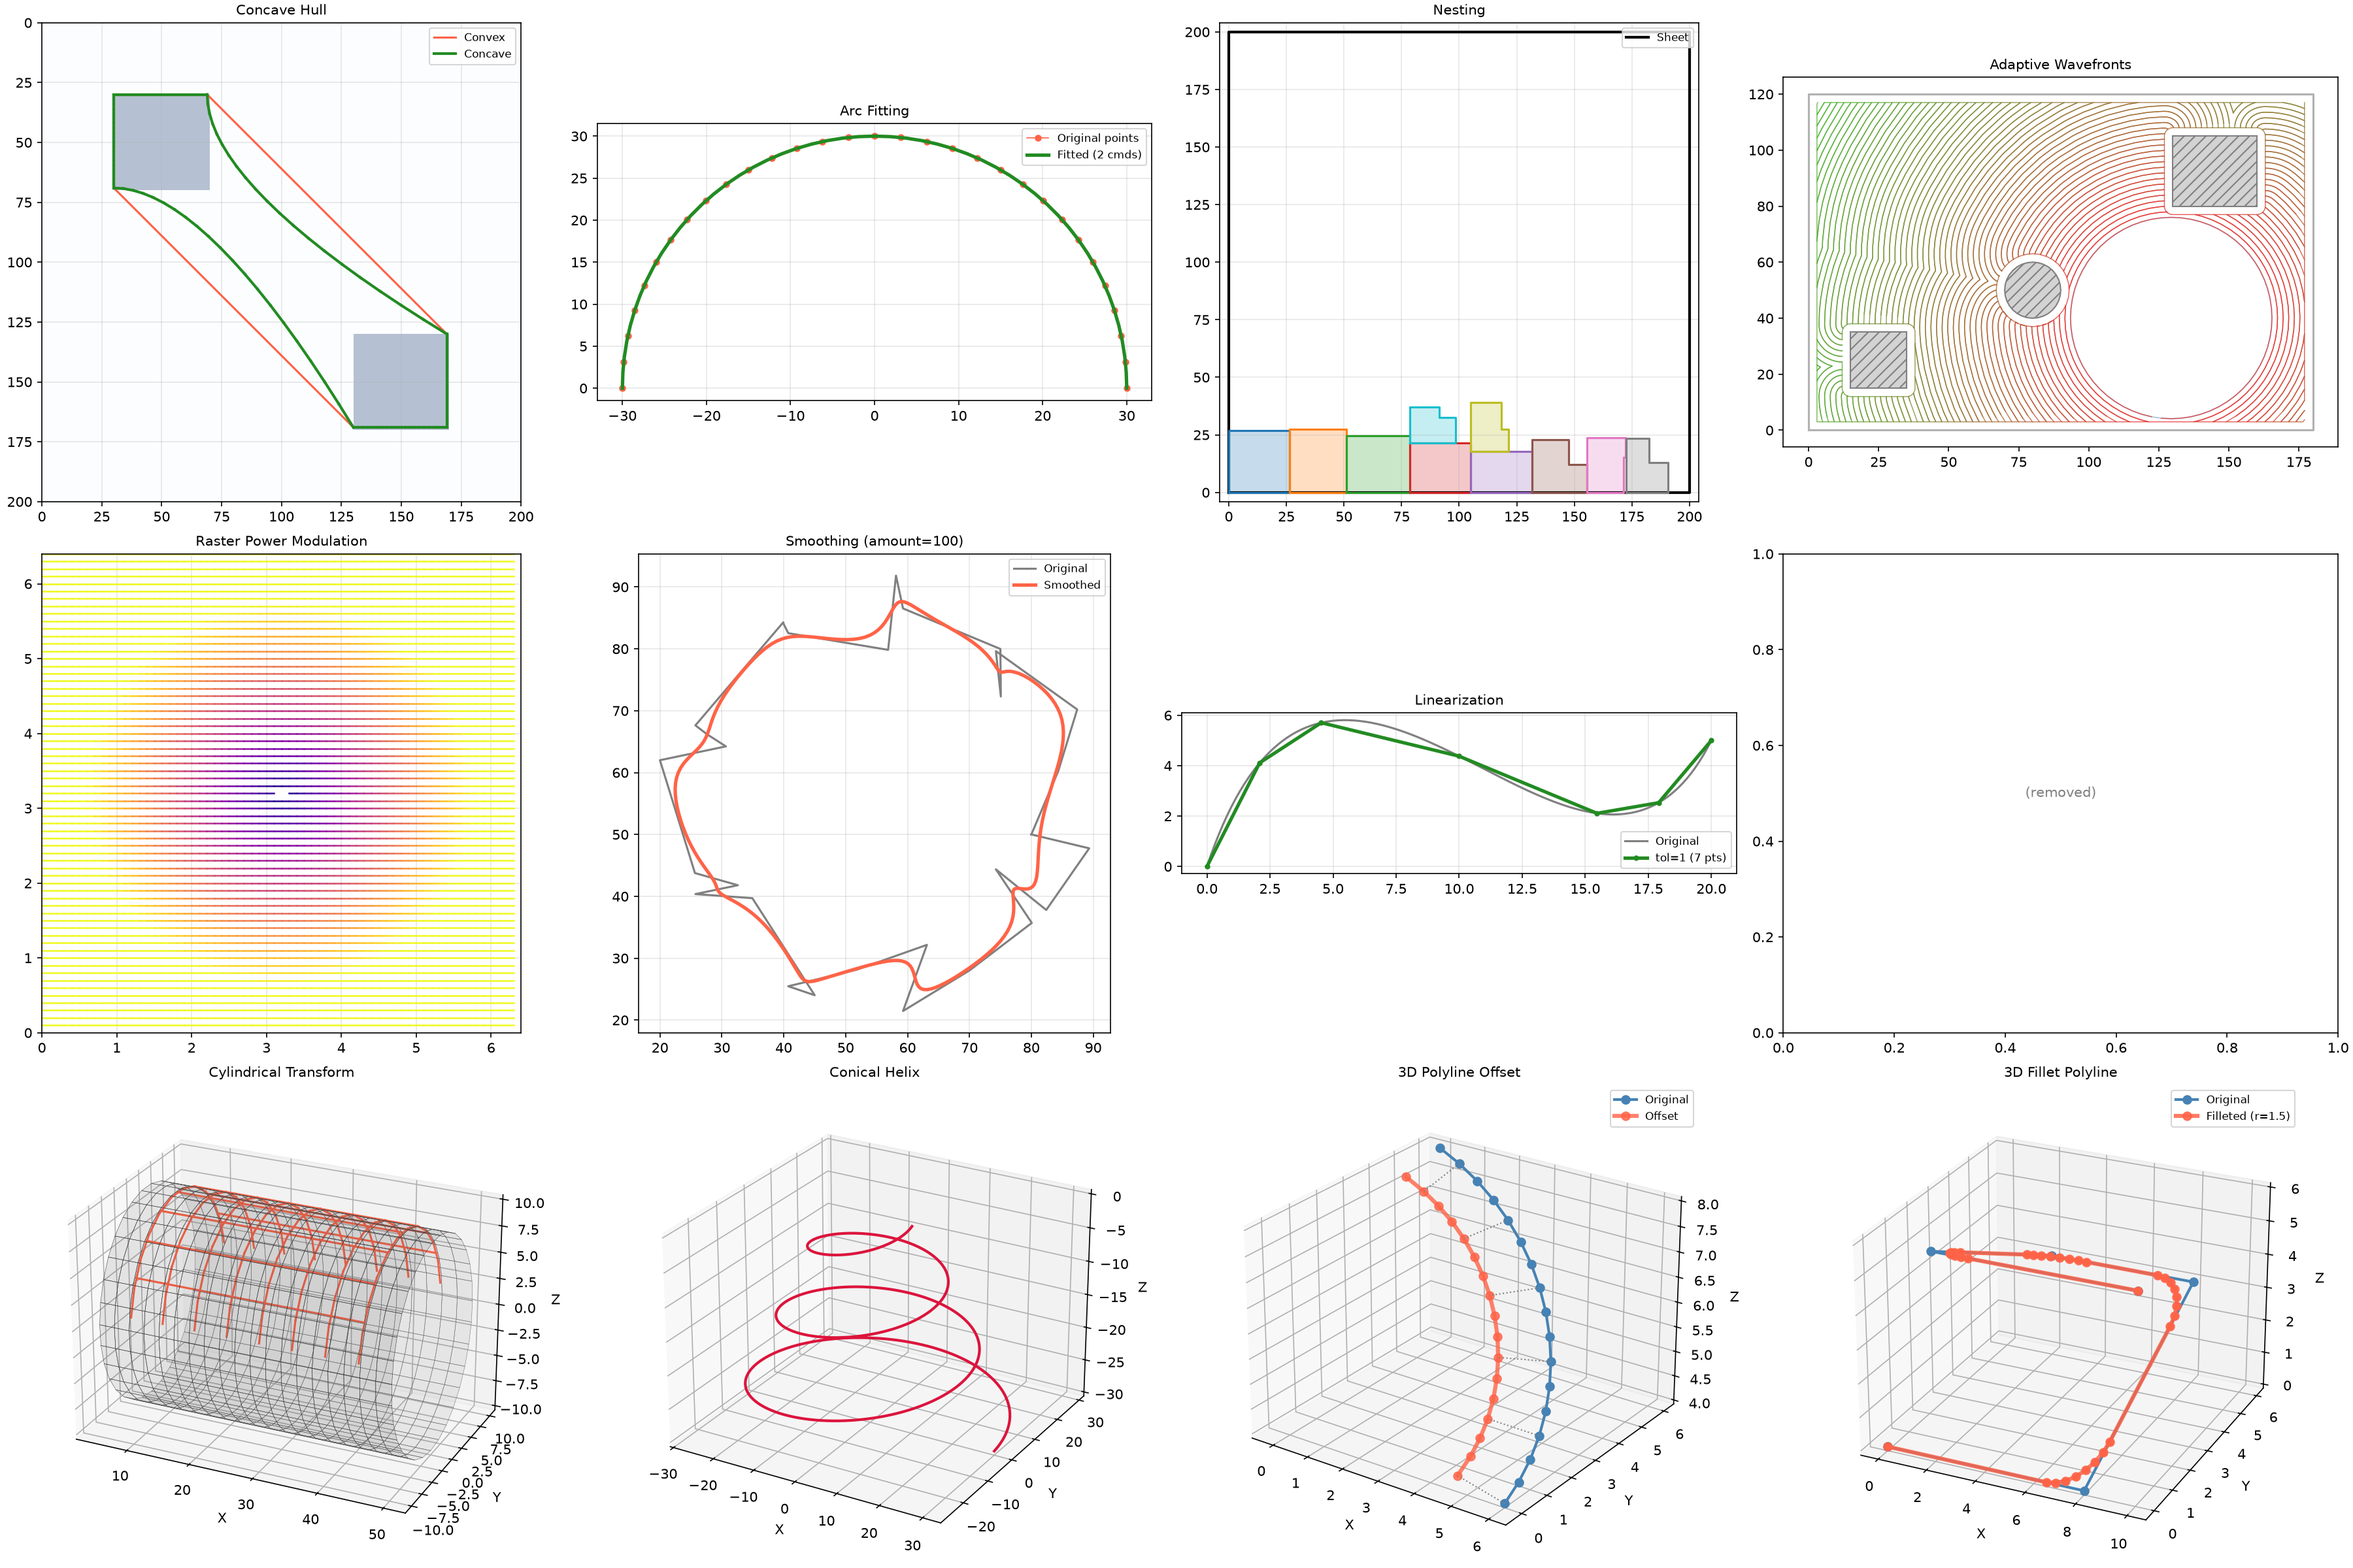
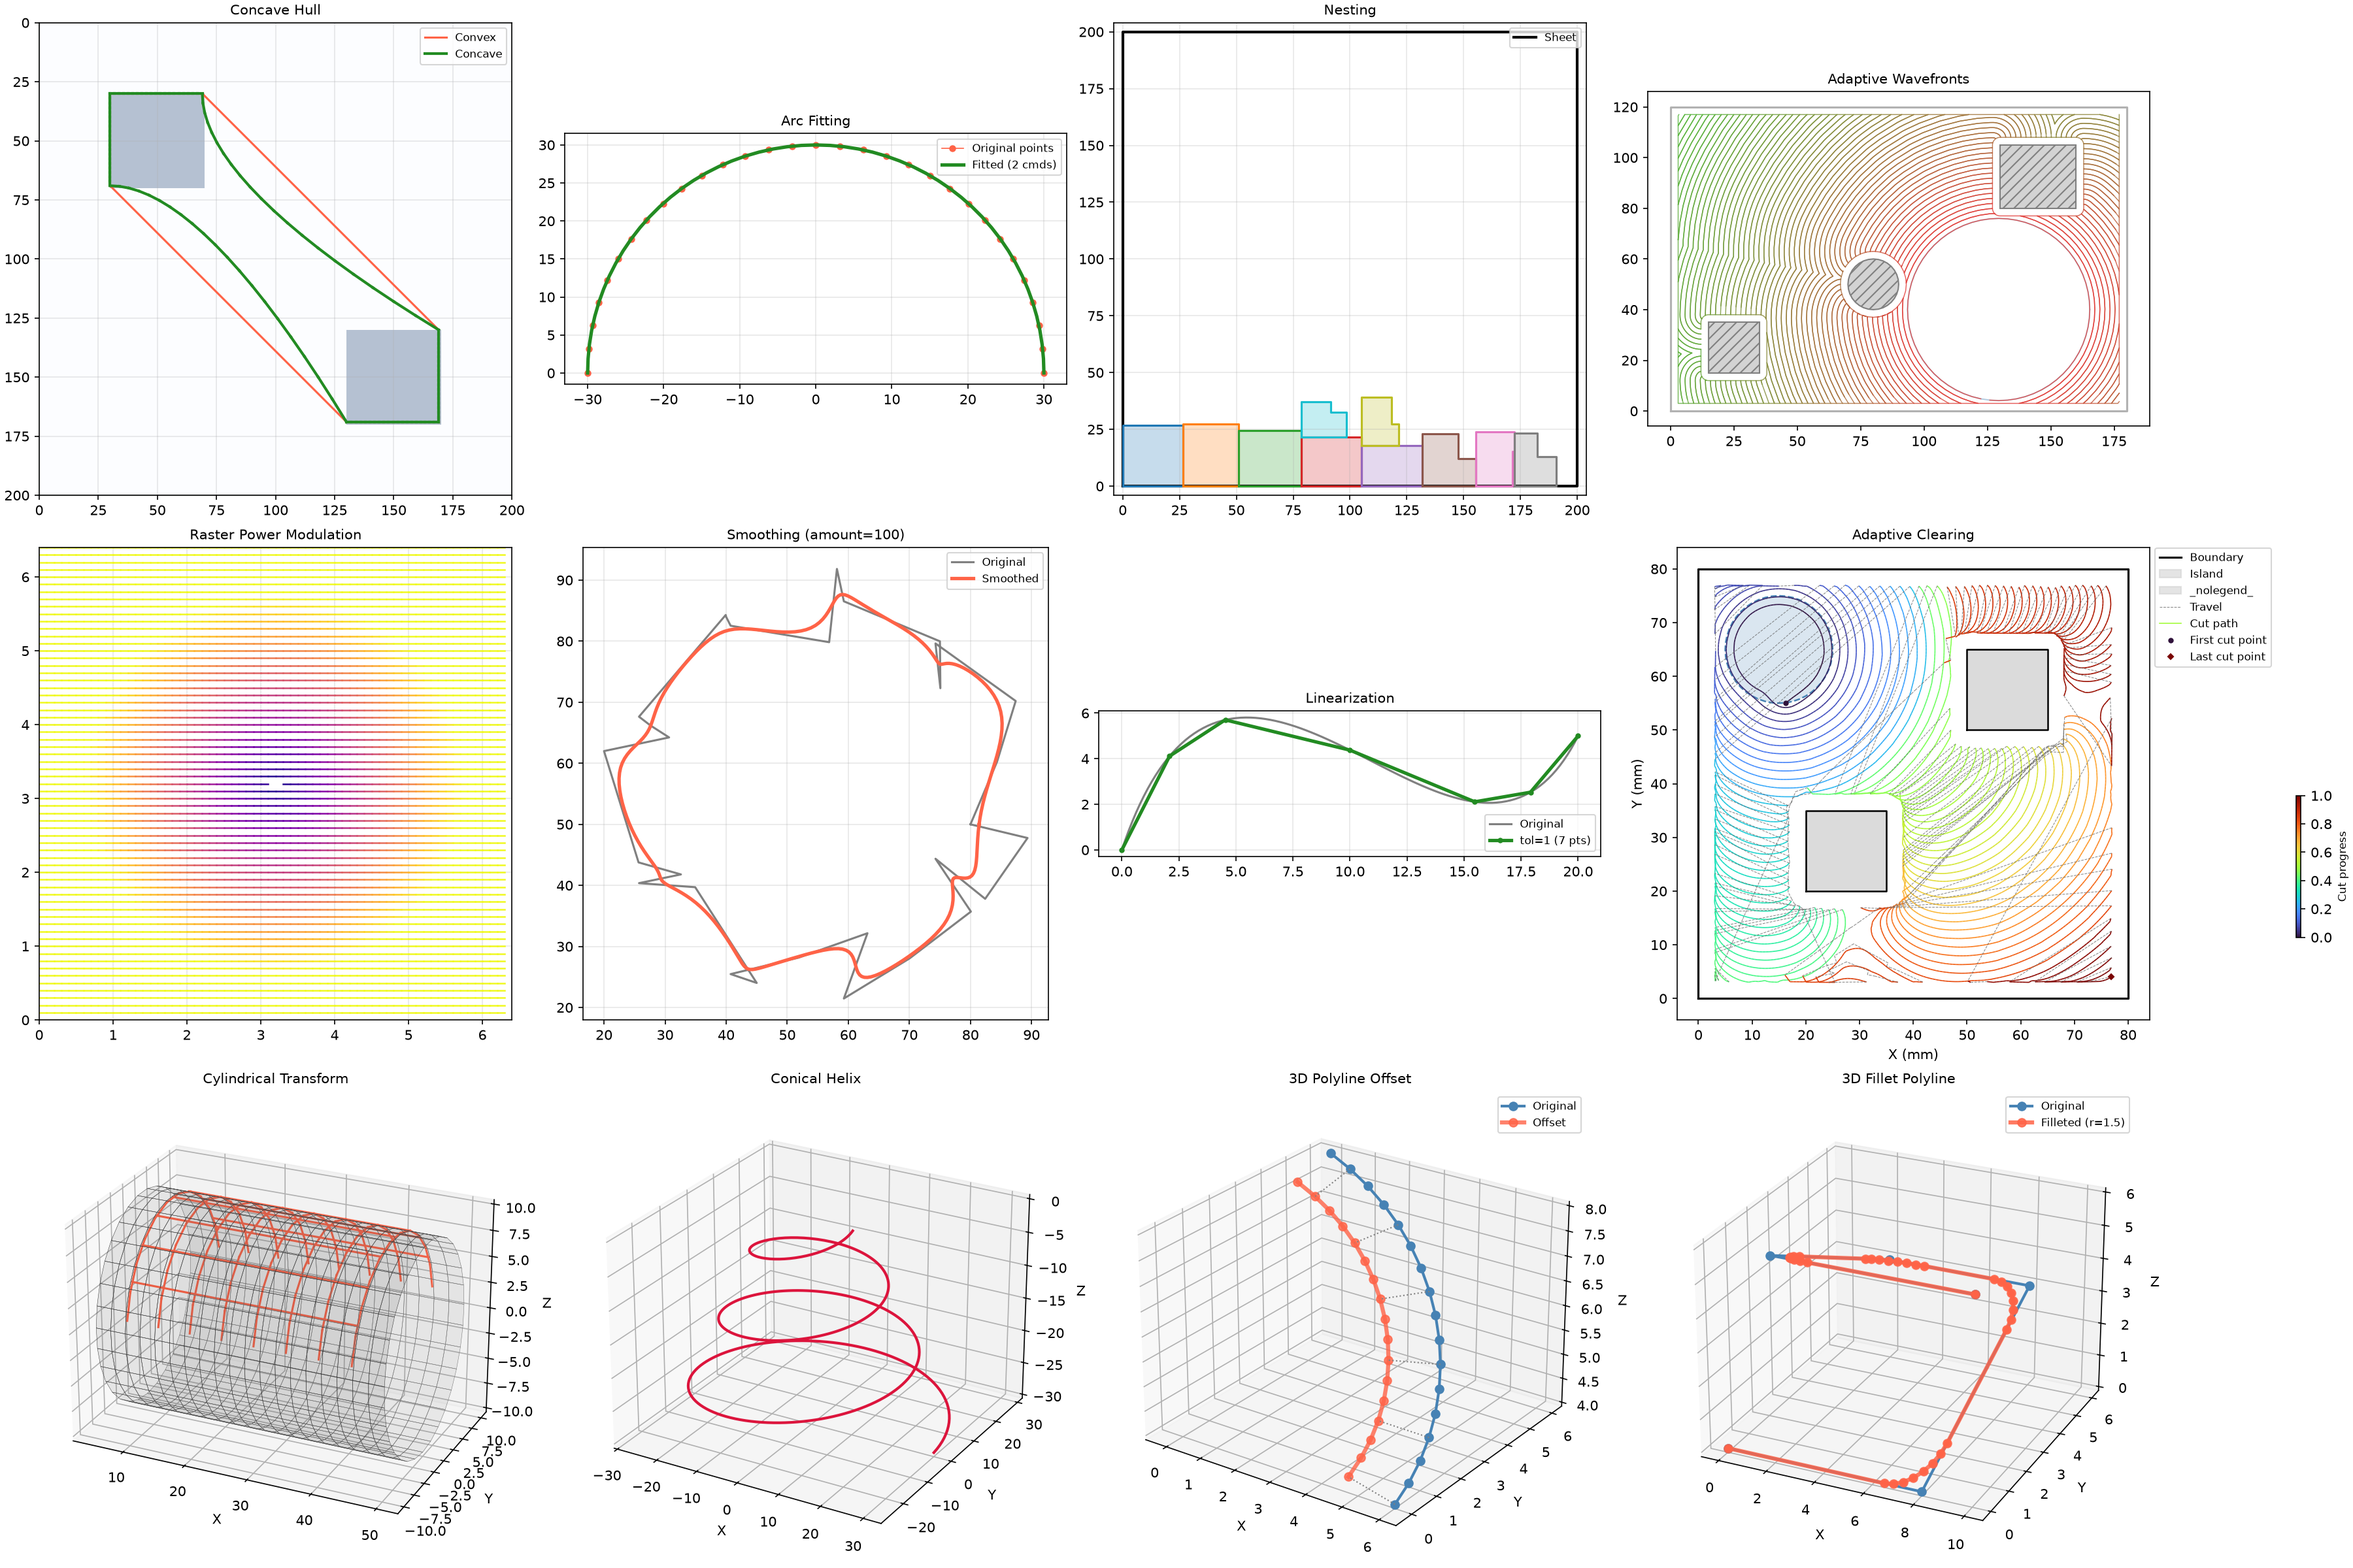
add adaptive clearing example to showcase

diff --git a/tools/examples/showcase.py b/tools/examples/showcase.py
@@ -6,7 +6,7 @@ import matplotlib.pyplot as plt
 import numpy as np
 from matplotlib.colors import to_hex
 
-from raygeo.cnc.machining.plan import execute_workplan
+from raygeo.cnc.machining.plan import Workplan
 from raygeo.cnc.machining.wavefront import build_wavefront_workplan
 from raygeo.geo import Geometry
 from raygeo.geo.algo import hull
@@ -15,11 +15,16 @@ from raygeo.geo.algo.helix import HelixDirection, generate_helix_3d
 from raygeo.geo.algo.nest2d.placement import place_parts
 from raygeo.geo.algo.smooth import smooth_polyline_3d
 from raygeo.geo.shape.bezier import linearize_bezier_adaptive
-from raygeo.geo.shape.polygon import get_polygon_convex_hull
+from raygeo.geo.shape.polygon import (
+    get_circle_polygon,
+    get_polygon_convex_hull,
+)
 from raygeo.geo.shape.polygon3d import fillet_polyline_3d, offset_polyline_3d
+from raygeo.ops.assembly.adaptive import adaptive_clearing
+from raygeo.ops.cut.cleared_area import ClearedArea
 from raygeo.ops.raster import ScanMode, rasterize_power_modulation
 from raygeo.ops.types import CommandType
-from tools.plot import make_pattern, plot_geometry
+from tools.plot import make_pattern, plot_geometry, plot_ops_2d
 
 
 def _make_two_squares(h, w):
@@ -435,17 +440,45 @@ def _plot_3d_offset(ax):
     ax.legend(fontsize=8)
 
 
-def _plot_peeling_multi(ax):
-    ax.text(
-        0.5,
-        0.5,
-        "(removed)",
-        ha="center",
-        va="center",
-        transform=ax.transAxes,
-        fontsize=10,
-        color="gray",
+def _plot_adaptive_2d(ax):
+    target_z = -5.0
+    boundary = [(0, 0), (80, 0), (80, 80), (0, 80)]
+    islands = [
+        [(20, 20), (35, 20), (35, 35), (20, 35)],
+        [(50, 50), (65, 50), (65, 65), (50, 65)],
+    ]
+    seed = get_circle_polygon((15, 65), 10, 48)
+    ca = ClearedArea(boundary=boundary, islands=islands, initial=[seed])
+    result = adaptive_clearing(
+        cleared=ca,
+        pocket_boundary=boundary,
+        islands=islands,
+        tool_radius=3.0,
+        step_over=1.8,
+        target_z=target_z,
+        safe_z=2.0,
+        area_tolerance=5.0,
     )
+    bx = [p[0] for p in boundary] + [boundary[0][0]]
+    by = [p[1] for p in boundary] + [boundary[0][1]]
+    ax.plot(bx, by, "k-", linewidth=1.5, alpha=0.4)
+    for island in islands:
+        ix = [p[0] for p in island] + [island[0][0]]
+        iy = [p[1] for p in island] + [island[0][1]]
+        ax.fill(ix, iy, color="lightgray", alpha=0.5, linewidth=0)
+        ax.plot(ix, iy, "k-", linewidth=1.2)
+    sx = [p[0] for p in seed] + [seed[0][0]]
+    sy = [p[1] for p in seed] + [seed[0][1]]
+    ax.fill(sx, sy, color="steelblue", alpha=0.2, linewidth=0)
+    ax.plot(sx, sy, color="steelblue", linewidth=1.2, linestyle="--")
+    plot_ops_2d(
+        ax,
+        result.ops,
+        boundary=boundary,
+        islands=islands,
+        mark_cut_start=False,
+    )
+    ax.set_title("Adaptive Clearing", fontsize=10)
 
 
 def _plot_fillet_polyline_3d(ax):
@@ -514,7 +547,9 @@ def _plot_adaptive_wavefronts(ax):
         target_z=-5.0,
         area_tolerance=1.0,
     )
-    result = execute_workplan(steps, boundary, islands=islands)
+    wp = Workplan(boundary, islands=islands, safe_z=2.0)
+    wp.extend(steps)
+    result = wp.execute()
 
     bx = [p[0] for p in boundary] + [boundary[0][0]]
     by = [p[1] for p in boundary] + [boundary[0][1]]
@@ -604,7 +639,7 @@ def generate_showcase():
     _plot_raster_power_modulation(axs[1][0])
     _plot_smooth(axs[1][1])
     _plot_linearization(axs[1][2])
-    _plot_peeling_multi(axs[1][3])
+    _plot_adaptive_2d(axs[1][3])
     _plot_cylindrical(axs[2][0])
     _plot_conical_helix(axs[2][1])
     _plot_3d_offset(axs[2][2])

diff --git a/tools/cli.py b/tools/cli.py
@@ -350,10 +350,31 @@ def cmd_doc(args):
         mod_name = api_docs.module_name_from_path(rel, root_module)
         stub_by_mod[mod_name] = (rel, fp)
 
-    targets = _expand_modules(args.modules, all_mods, root_module)
+    for pattern in args.modules:
+        has_glob = bool(set("*?[") & set(pattern))
+        if has_glob:
+            _expand_modules(args.modules, all_mods, root_module)
+            continue
 
-    for matched_mod, func_filter in targets:
-        matched_rel, matched_file = stub_by_mod[matched_mod]
+        mod = _resolve_module_exact(pattern, all_mods, root_module)
+        func_filter = None
+        if mod is None:
+            *parts, func_filter = pattern.split(".")
+            base = ".".join(parts)
+            mod = _resolve_module_exact(base, all_mods, root_module)
+        if mod is None:
+            doc_targets = [f"{root_module}.{pattern}.md", f"{pattern}.md"]
+            print(f"  {pattern} -> no stub found, generating images only...")
+            images_dir.mkdir(parents=True, exist_ok=True)
+            inline_map, _ = _generate_images(
+                images_dir,
+                doc_filter=doc_targets[0],
+                func_filter=func_filter,
+            )
+            _inject_images_into_api(api_dir, images_dir, inline_map)
+            continue
+
+        matched_rel, matched_file = stub_by_mod[mod]
 
         api_dir.mkdir(parents=True, exist_ok=True)
         out_path = api_docs.output_path_from_rel(
@@ -364,9 +385,9 @@ def cmd_doc(args):
         if page.strip():
             page = _format_md(page)
             out_path.write_text(page)
-            print(f"  {matched_mod} -> {out_path}")
+            print(f"  {mod} -> {out_path}")
 
-        doc_target = f"{matched_mod}.md"
+        doc_target = f"{mod}.md"
         print(f"Generating visual examples for {doc_target}...")
         inline_map, _ = _generate_images(
             images_dir,
